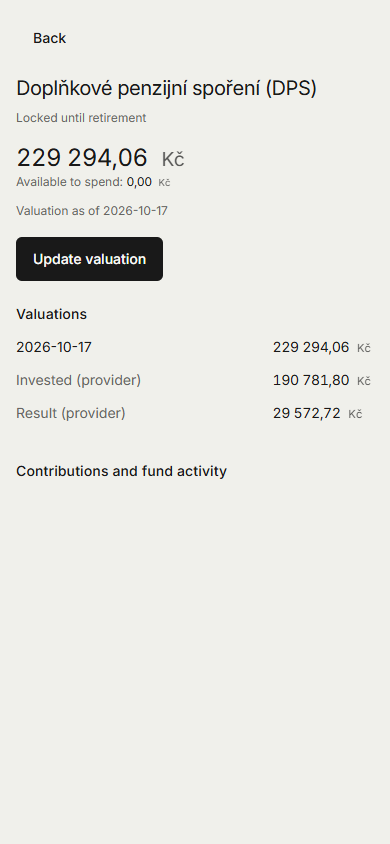
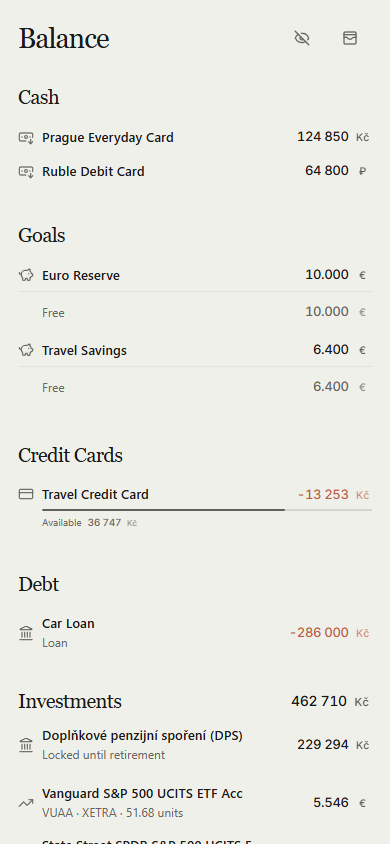
Expose DPS identity and rename tools; fix pension persistence and return projections

diff --git a/app/api/mcp/route.ts b/app/api/mcp/route.ts
@@ -151,6 +151,7 @@ type TransactionOperationSummary = {
 
 const MCP_MUTATION_TOOLS = new Set([
   "upsert_pension_statement",
+  "rename_pension_account",
   "link_budget_return",
   "submit_transaction_batch",
   "create_transactions",
@@ -800,6 +801,7 @@ function recurringToolAliases() {
 
 function getMcpTools() {
   return [
+        { name: "rename_pension_account", title: "Rename pension account", description: "Rename an existing locked pension account using its ID from get_pension_accounts. Changes only the display name, preserving valuations, contributions, transaction links and recurring schedules. Confirm the new name with the user.", annotations: { readOnlyHint: false, destructiveHint: false, openWorldHint: false, idempotentHint: true }, inputSchema: { type: "object", properties: { wallet_id: { type: "string" }, name: { type: "string", minLength: 1 } }, required: ["wallet_id","name"], additionalProperties: false } },
         { name: "get_investment_summary", title: "Get total investments", description: "Read all market investment positions and locked pension accounts, their native values and one combined total in the user's saved default currency. Includes separate market/pension subtotals, quote/valuation dates and FX conversion availability. Missing prices or rates make the affected total null, never a misleading partial total. Pension value remains unavailable for spending.", annotations: { readOnlyHint: true, destructiveHint: false, openWorldHint: false }, inputSchema: { type: "object", properties: {}, additionalProperties: false } },
         { name: "link_budget_return", title: "Link savings budget return", description: "Link an existing paid transfer out of a savings goal back to the original categorized funding operation. Use only for a confirmed refund/reversal, not a purchase or goal move. Read get_transactions first. Only unused funding reduces the original envelope, in the return month. Does not create a payment or change wallet balances.", annotations: { readOnlyHint: false, destructiveHint: false, openWorldHint: false, idempotentHint: true }, inputSchema: { type: "object", properties: { return_id: { type: "string" }, funding_id: { type: "string" } }, required: ["return_id","funding_id"], additionalProperties: false } },
         {
@@ -816,6 +818,7 @@ function getMcpTools() {
             wallet_id: { type: "string" }, name: { type: "string" },
             statement: { type: "object", properties: {
               as_of: { type: "string", format: "date" }, total_value: { type: "number", minimum: 0 },
+              product_type: { type: "string", enum: ["cz_dps"], description: "Use cz_dps for Czech Doplňkové penzijní spoření (DPS). Product identity is preserved independently of the account name." },
               invested: { type: ["number", "null"], minimum: 0 }, provider_result: { type: ["number", "null"] },
               entries: { type: "array", items: { type: "object", properties: {
                 id: { type: "string" }, occurred_at: { type: "string", format: "date" }, amount: { type: "number", exclusiveMinimum: 0 },
@@ -2291,7 +2294,7 @@ function sanitizeFinanceContext(data: unknown) {
 
   return {
     wallets: wallets.filter(isRecord).map((wallet) => ({
-      ...walletAvailability({ id: wallet.id, type: wallet.type, balance: wallet.balance }, goals.filter(isRecord)),
+      ...walletAvailability(wallet as {id:unknown;type:unknown;balance:unknown;pension_state?:unknown}, goals.filter(isRecord)),
       id: wallet.id,
       name: wallet.name,
       type: wallet.type,
@@ -3487,6 +3490,13 @@ async function handleToolCall(
     return handleGetFinanceContext(id, auth.keyHash, t);
   }
 
+  if (toolName === "rename_pension_account") {
+    const args=(params.arguments ?? {}) as Record<string,unknown>;
+    const {data,error}=await createAnonClient().rpc("mcp_rename_pension_account",{p_key_hash:auth.keyHash,p_wallet_id:optionalString(args.wallet_id),p_name:optionalString(args.name)});
+    if(error||!data)return {jsonrpc:"2.0",id,error:{code:-32602,message:t("mcp.errors.pensionStatementFailed")}};
+    return successResponse(id,t("mcp.success.pensionAccountUpdated"),data);
+  }
+
   if (toolName === "get_investment_summary") {
     const {data,error}=await createAnonClient().rpc("mcp_get_investment_summary_source",{p_key_hash:auth.keyHash});
     if(error || !data) return {jsonrpc:"2.0",id,error:{code:-32000,message:t("mcp.errors.financeContextLoadFailed")}};
@@ -3510,7 +3520,7 @@ async function handleToolCall(
       ...(statement?.success ? { p_wallet_id: optionalString(args.wallet_id), p_name: optionalString(args.name), p_statement: statement.data } : {}),
     });
     if (error || !data) return { jsonrpc: "2.0", id, error: { code: -32000, message: t("mcp.errors.pensionStatementFailed") } };
-    const result = toolName === "get_pension_accounts" ? { accounts: data } : { ...data, ...walletAvailability({ id: data.wallet_id, type: "pension", balance: data.balance }, []) };
+    const result = toolName === "get_pension_accounts" ? { accounts: data } : { ...data, ...walletAvailability({ id: data.wallet_id, type: "pension", balance: data.balance, pension_state: data.pension_state }, []) };
     return { jsonrpc: "2.0", id, result: { content: [{ type: "text", text: JSON.stringify(result) }], structuredContent: result } };
   }
 

diff --git a/features/accounts/components/account-form-sheet.tsx b/features/accounts/components/account-form-sheet.tsx
@@ -126,6 +126,7 @@ export function AccountFormSheet({
       onSubmit={form.handleSubmit((values) => {
         onSubmit({
           ...values,
+          balance: values.type === "pension" ? account?.balance ?? 0 : values.balance,
           credit_limit: values.type === "credit_card" ? values.credit_limit ?? null : null,
           currency: values.currency,
           debt_kind: values.type === "debt" ? values.debt_kind ?? "personal" : undefined,
@@ -149,6 +150,7 @@ export function AccountFormSheet({
           render={({ field }) => (
             <FormSelectField
               id="wallet-type"
+              disabled={mode === "edit" && account?.type === "pension"}
               label={t("fields.type")}
               error={form.formState.errors.type}
               value={field.value}
@@ -157,7 +159,7 @@ export function AccountFormSheet({
               <SelectGroup>
                 <SelectItem value="cash">{accountsT("walletTypes.cash")}</SelectItem>
                 <SelectItem value="saving">{accountsT("walletTypes.saving")}</SelectItem>
-                <SelectItem value="pension">{accountsT("walletTypes.pension")}</SelectItem>
+                {mode === "add" || account?.type === "pension" ? <SelectItem value="pension">{accountsT("walletTypes.pension")}</SelectItem> : null}
                 <SelectItem value="credit_card">{accountsT("walletTypes.credit_card")}</SelectItem>
                 <SelectItem value="debt">{accountsT("walletTypes.debt")}</SelectItem>
               </SelectGroup>
@@ -199,6 +201,7 @@ export function AccountFormSheet({
               render={({ field }) => (
                 <MoneyInput
                   id="wallet-balance"
+                  disabled={type === "pension"}
                   autoComplete="off"
                   aria-invalid={Boolean(form.formState.errors.balance)}
                   blankZeroOnFocus
@@ -216,6 +219,7 @@ export function AccountFormSheet({
             render={({ field }) => (
               <FormSelectField
                 id="wallet-currency"
+                disabled={mode === "edit" && account?.type === "pension"}
                 label={t("fields.currency")}
                 error={form.formState.errors.currency}
                 value={field.value}

diff --git a/features/transactions/form/sections/transfer-section.tsx b/features/transactions/form/sections/transfer-section.tsx
@@ -1,4 +1,5 @@
 "use client";
+import { useEffect } from "react";
 
 import { useWatch, Controller, useFormContext } from "react-hook-form";
 import { useTranslations } from "next-intl";
@@ -16,11 +17,16 @@ import type { TransactionFormInputs } from "../types";
 export function TransferSection() {
   const t = useTranslations("transactions.form");
   const { accounts, allocations, categoryOptions, sourceCurrencySymbol, destinationCurrencySymbol } = useTransactionFormContext();
-  const { control, formState: { errors } } = useFormContext<TransactionFormInputs>();
+  const { control, setValue, formState: { errors } } = useFormContext<TransactionFormInputs>();
 
   const sourceAccountId = useWatch({ control, name: "source_account_id" });
   const destinationAccountId = useWatch({ control, name: "destination_account_id" });
   const allocationId = useWatch({ control, name: "allocation_id" });
+  const categoryId = useWatch({ control, name: "category_id" });
+  const pensionDestination = accounts.find((account) => account.id === destinationAccountId)?.type === "pension";
+  useEffect(() => {
+    if (!allocationId && !pensionDestination && categoryId) setValue("category_id", null);
+  }, [allocationId, pensionDestination, categoryId, setValue]);
   const sourceAllocations = getGoalAllocationsForSource(accounts, allocations, sourceAccountId);
   const destinationAllocations = getGoalAllocationsForSource(accounts, allocations, destinationAccountId);
 
@@ -54,7 +60,7 @@ export function TransferSection() {
         </FormPickerRow>
       )}
 
-      {(allocationId || accounts.find((account) => account.id === destinationAccountId)?.type === "pension") && (
+      {(allocationId || pensionDestination) && (
         <FormPickerRow>
           <div className="flex flex-col gap-1">
             <Controller

diff --git a/features/budget/lib/budget-execution.test.ts b/features/budget/lib/budget-execution.test.ts
@@ -1,5 +1,8 @@
 import { describe, expect, it } from "vitest";
 import { buildBudgetExecution } from "./budget-execution";
+import { getConvertedCategoryTotal } from "./budget-analytics";
+import { buildBudgetStatus } from "./budget-status";
+import type { Category } from "@/types/finance";
 import type { Account, Transaction } from "@/types/finance";
 const cash = { id: "cash", currency: "CZK", type: "cash" } as Account;
 const saving = { id: "saving", currency: "CZK", type: "saving" } as Account;
@@ -20,6 +23,8 @@ describe("budget execution provenance", () => {
   it("reverses only unused funding, on the return date and original category", () => {
     const result = buildBudgetExecution([base,{...spend,amount:1000},{...base,id:"return",occurred_at:"2026-10-03",source_account_id:"saving",source_account:saving,source_allocation_id:"travel",allocation_id:null,destination_account_id:"cash",linked_transaction_id:"fund",amount:2500}]);
     expect(result.transactions.map((tx)=>[tx.category_id,tx.amount])).toEqual([["travel-category",3000],["travel-category",-2000]]);
+    expect(getConvertedCategoryTotal({transactions:result.transactions,month:new Date("2026-10-01T12:00:00"),categoryIds:new Set(["travel-category"]),targetCurrency:"CZK",exchangeRates:[]}).amount).toBe(-2000);
+    expect(buildBudgetStatus({categories:[{id:"travel-category",name:"Travel",type:"expense",parent_id:null,description:"[budget: 5000]",is_system:false} as Category],transactions:result.transactions,month:new Date("2026-10-01T12:00:00"),targetCurrency:"CZK",exchangeRates:[]}).envelopes[0].spent).toBe(-2000);
   });
   it("keeps skipped funding out, leaves unknown opening balances as normal spending", () => {
     expect(buildBudgetExecution([{...base,status:"skipped"},spend]).transactions[0].amount).toBe(4000);

diff --git a/features/investments/components/investment-list.tsx b/features/investments/components/investment-list.tsx
@@ -47,7 +47,10 @@ export function InvestmentList({
         <h3 className="font-heading text-[20px] leading-[1.12] tracking-[-0.028em] text-foreground sm:type-h3">
           {t("title")}
         </h3>
-        <div className="flex h-8 w-8 items-center justify-center">
+        <span className="ml-auto type-h6" aria-label={t("total")}>
+          {summary.total_value === null ? <span className="type-body-12 text-muted-foreground">{t("totalUnavailable")}</span> : <MoneyAmount amount={summary.total_value} currency={defaultCurrency} showMinorUnits={showMinorUnits} />}
+        </span>
+        {editing ? <div className="flex h-8 w-8 items-center justify-center">
           {editing ? (
             <Tooltip>
               <TooltipTrigger
@@ -66,13 +69,9 @@ export function InvestmentList({
               <TooltipContent>{t("actions.add")}</TooltipContent>
             </Tooltip>
           ) : null}
-        </div>
+        </div> : null}
       </div>
 
-      <p className="type-body-14 flex items-center justify-between gap-3 px-2">
-        <span className="text-muted-foreground">{t("total")}</span>
-        {summary.total_value === null ? <span className="type-body-12 text-muted-foreground">{t("totalUnavailable")}</span> : <MoneyAmount amount={summary.total_value} currency={defaultCurrency} showMinorUnits={showMinorUnits} />}
-      </p>
       {pensionAccounts.map(account => <AccountRow key={account.id} account={account} selected={selectedPensionId===account.id} onSelect={()=>onSelectPension?.(account.id)} showMinorUnits={showMinorUnits} onEdit={editing?onEditPension:undefined} onDelete={editing?onDeletePension:undefined} />)}
       {editing && onAddPension ? <Button variant="ghost" onClick={onAddPension}>{accountsT("walletTypes.pension")}</Button> : null}
 

diff --git a/features/transactions/lib/pension-persistence.test.ts b/features/transactions/lib/pension-persistence.test.ts
@@ -1,0 +1,21 @@
+import { expect, it } from "vitest";
+import { transactionInputSchema, transactionEntryInputSchema, transactionScheduleInputSchema } from "@/types/finance-schemas";
+import { validateTransactionRelationships } from "./transaction-utils";
+import type { Account, Category } from "@/types/finance";
+const source="00000000-0000-4000-8000-000000000001";
+const destination="00000000-0000-4000-8000-000000000002";
+const category="00000000-0000-4000-8000-000000000003";
+const input={title:"DPS contribution",occurred_at:"2026-10-08",status:"paid",kind:"transfer",amount:1700,destination_amount:1700,source_account_id:source,destination_account_id:destination,category_id:category,allocation_id:null};
+it("preserves the pension category through create, edit and recurring persistence schemas",()=>{
+ expect(transactionInputSchema.parse(input).category_id).toBe(category);
+ expect(transactionEntryInputSchema.parse(input).category_id).toBe(category);
+ expect(transactionScheduleInputSchema.parse({...input,recurrence:{frequency:"monthly"}}).category_id).toBe(category);
+});
+it("defers destination eligibility to the account-aware validator",()=>{
+ const values=transactionInputSchema.parse(input);
+ const accounts=[{id:source,type:"cash",currency:"CZK"},{id:destination,type:"pension",currency:"CZK"}] as Account[];
+ const categories=[{id:category,type:"expense",parent_id:null}] as Category[];
+ expect(()=>validateTransactionRelationships(values,{accounts,categories})).not.toThrow();
+ expect(()=>validateTransactionRelationships(values,{accounts:accounts.map(a=>a.id===destination?{...a,type:"cash"}:a),categories})).toThrow();
+ expect(()=>validateTransactionRelationships(values,{accounts,categories:[{...categories[0],type:"income"}]})).toThrow();
+});

diff --git a/features/investments/lib/investment-summary.ts b/features/investments/lib/investment-summary.ts
@@ -1,5 +1,6 @@
 import { convertMoney } from "@/features/finance/lib/exchange-rates";
 import { getPositionMarketValue } from "./positions";
+import { pensionProduct } from "@/features/finance/lib/wallet-availability";
 import type { Account, ExchangeRate, InvestmentPosition, Transaction } from "@/types/finance";
 import type { CurrencyCode } from "@/types/currency";
 
@@ -7,7 +8,7 @@ export function buildInvestmentSummary(options: { accounts: Account[]; positions
   const asOf = options.asOf ?? new Date().toISOString().slice(0,10);
   const native = [
     ...options.positions.map(position => ({ id:position.id, name:position.instrument.name, kind:"market" as const, value:getPositionMarketValue(position,options.transactions), currency:position.latest_quote?.currency ?? position.instrument.quote_currency, as_of:position.latest_quote?.market_date ?? null })),
-    ...options.accounts.filter(account=>account.type==="pension").map(account=>({id:account.id,name:account.name,kind:"pension" as const,value:account.balance,currency:account.currency,as_of:account.pension_state?.statements.map(s=>s.as_of).sort().at(-1) ?? null})),
+    ...options.accounts.filter(account=>account.type==="pension").map(account=>({...pensionProduct(account.pension_state),id:account.id,name:account.name,kind:"pension" as const,value:account.balance,currency:account.currency,as_of:account.pension_state?.statements.map(s=>s.as_of).sort().at(-1) ?? null})),
   ];
   const items=native.map(item=>{
     const converted=item.value===null?null:convertMoney({amount:item.value,sourceCurrency:item.currency,targetCurrency:options.currency,requestedDate:asOf,exchangeRates:options.exchangeRates});

diff --git a/types/finance-schemas.ts b/types/finance-schemas.ts
@@ -111,9 +111,8 @@ function addTransactionValidation<
       ctx.addIssue({ code: z.ZodIssueCode.custom, path: ["category_id"], message: "Choose a category." });
     }
 
-    if (values.kind === "transfer" && values.category_id && !values.allocation_id) {
-      ctx.addIssue({ code: z.ZodIssueCode.custom, path: ["category_id"], message: "Only transfers into a savings goal can use a category." });
-    }
+    // Goal/pension category eligibility depends on the destination account. The repository
+    // relationship validator and database enforce it after loading the verified owner's accounts.
 
     if (values.source_allocation_id && values.kind !== "transfer" && values.kind !== "expense") {
       ctx.addIssue({ code: z.ZodIssueCode.custom, path: ["source_allocation_id"], message: "A source goal can only be selected for expenses and transfers." });
@@ -203,7 +202,7 @@ function normalizeTransactionValues<
     principal_amount: values.kind === "debt_payment" ? values.principal_amount ?? 0 : null,
     interest_amount: values.kind === "debt_payment" ? values.interest_amount ?? 0 : null,
     extra_principal_amount: values.kind === "debt_payment" ? values.extra_principal_amount ?? 0 : null,
-    category_id: values.kind === "transfer" && !values.allocation_id ? null : values.category_id ?? null,
+    category_id: values.category_id ?? null,
     allocation_id: (values.kind === "income" || values.kind === "transfer") ? (values.allocation_id ?? null) : null,
     source_allocation_id: (values.kind === "expense" || values.kind === "transfer") ? (values.source_allocation_id ?? null) : null,
   };

diff --git a/features/finance/lib/wallet-availability.ts b/features/finance/lib/wallet-availability.ts
@@ -1,6 +1,6 @@
 /** Shared MCP liquidity contract. Goals reserve money; borrowing capacity is never cash. */
 export function walletAvailability(
-  wallet: { id: unknown; type: unknown; balance: unknown },
+  wallet: { id: unknown; type: unknown; balance: unknown; pension_state?: unknown },
   goals: { id?: unknown; wallet_id?: unknown; name?: unknown; amount?: unknown }[],
 ) {
   const total = Number(wallet.balance);
@@ -12,10 +12,17 @@ export function walletAvailability(
   const reserved = liability ? null : wallet.type === "pension" ? total : allocations.reduce((sum, goal) => sum + goal.amount, 0);
   const available = liability || wallet.type === "pension" ? 0 : Number((total - (reserved ?? 0)).toFixed(2));
   return {
+    ...pensionProduct(wallet.pension_state),
     total_balance: total,
     reserved_balance: reserved === null ? null : Number(reserved.toFixed(2)),
     available_to_spend: available,
     allocations,
     availability_status: liability ? "liability" : wallet.type === "pension" ? "locked_until_retirement" : available < 0 ? "overallocated" : "available",
   };
+}
+
+/** Product identity survives renaming; never infer financial product types from names. */
+export function pensionProduct(state: unknown) {
+  const dps = state !== null && typeof state === "object" && "product_type" in state && state.product_type === "cz_dps";
+  return dps ? { product_type: "cz_dps" as const, product_name: "Doplňkové penzijní spoření (DPS)", country_code: "CZ" as const } : {};
 }

diff --git a/features/accounts/lib/pension.ts b/features/accounts/lib/pension.ts
@@ -2,6 +2,7 @@ import { z } from "zod";
 import type { Account, PensionEntry, PensionStatement, Transaction } from "@/types/finance";
 
 export const pensionStatementSchema = z.object({
+  product_type: z.literal("cz_dps").optional(),
   as_of: z.string().date(),
   total_value: z.number().finite().nonnegative(),
   invested: z.number().finite().nonnegative().nullable().optional(),
@@ -36,5 +37,5 @@ export function applyPensionStatement(account: Account, statement: PensionStatem
   const { entries: ignored, ...valuation } = statement;
   void ignored;
   const statements = [...(account.pension_state?.statements ?? []).filter((item) => item.as_of !== statement.as_of), valuation].sort((a, b) => a.as_of.localeCompare(b.as_of));
-  return { ...account, pension_state: { statements, entries }, balance: pensionBalance(statements.at(-1)!, entries, transactions, account.id) };
+  return { ...account, pension_state: { product_type: account.pension_state?.product_type ?? statement.product_type, statements, entries }, balance: pensionBalance(statements.at(-1)!, entries, transactions, account.id) };
 }

diff --git a/features/transactions/form/submit.ts b/features/transactions/form/submit.ts
@@ -37,7 +37,7 @@ export function normalizePayload(values: TransactionFormInputs): TransactionInpu
     principal_amount: values.kind === "debt_payment" ? (debtBreakdown?.principal_amount ?? 0) : null,
     interest_amount: values.kind === "debt_payment" ? (debtBreakdown?.interest_amount ?? 0) : null,
     extra_principal_amount: values.kind === "debt_payment" ? (debtBreakdown?.extra_principal_amount ?? 0) : null,
-    category_id: (isMoveKind(values.kind) && !values.allocation_id) ? null : (values.category_id ?? null),
+    category_id: values.category_id ?? null,
     source_account_id: values.source_account_id ?? null,
     destination_account_id: values.destination_account_id ?? null,
     allocation_id: (values.kind === "income" || values.kind === "transfer") ? (values.allocation_id ?? null) : null,

diff --git a/features/finance/lib/wallet-availability.test.ts b/features/finance/lib/wallet-availability.test.ts
@@ -10,3 +10,7 @@ it("never treats debt, credit, or pension as spendable cash",()=>{
  expect(walletAvailability({id:"p",type:"pension",balance:229294.06},[])).toMatchObject({reserved_balance:229294.06,available_to_spend:0});
  expect(walletAvailability({id:"d",type:"credit_card",balance:-1000},[])).toMatchObject({reserved_balance:null,available_to_spend:0});
 });
+it("identifies Czech DPS independently of the editable wallet name",()=>{
+ const wallet={id:"p",type:"pension",balance:229294.06,name:"Renamed account",pension_state:{product_type:"cz_dps"}};
+ expect(walletAvailability(wallet,[])).toMatchObject({product_type:"cz_dps",country_code:"CZ",product_name:"Doplňkové penzijní spoření (DPS)",available_to_spend:0});
+});
